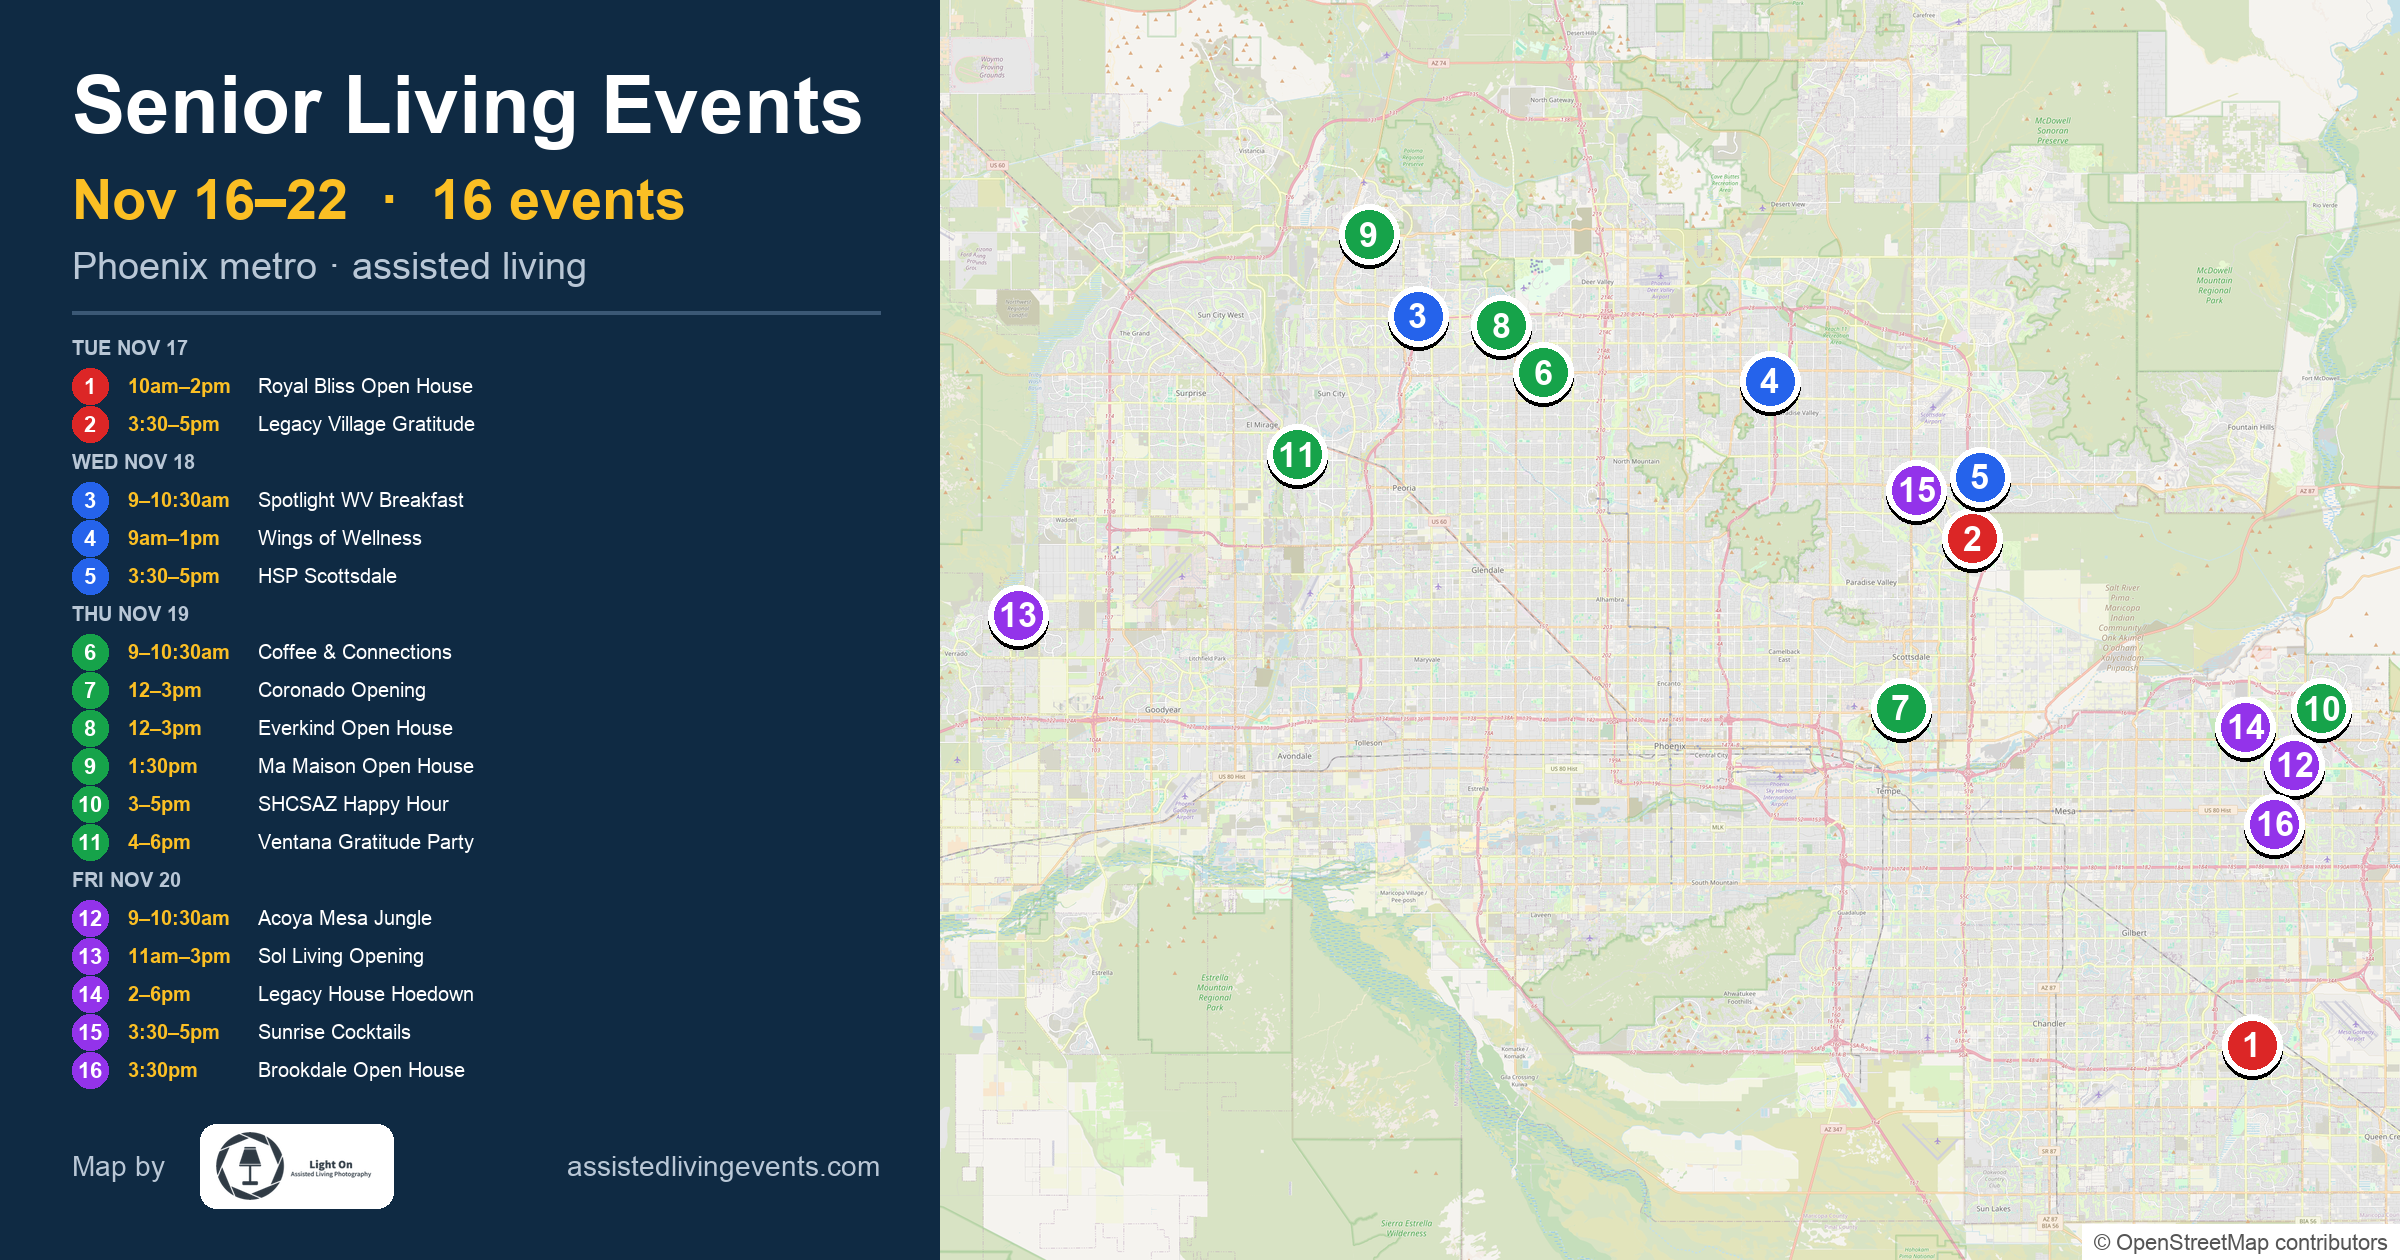
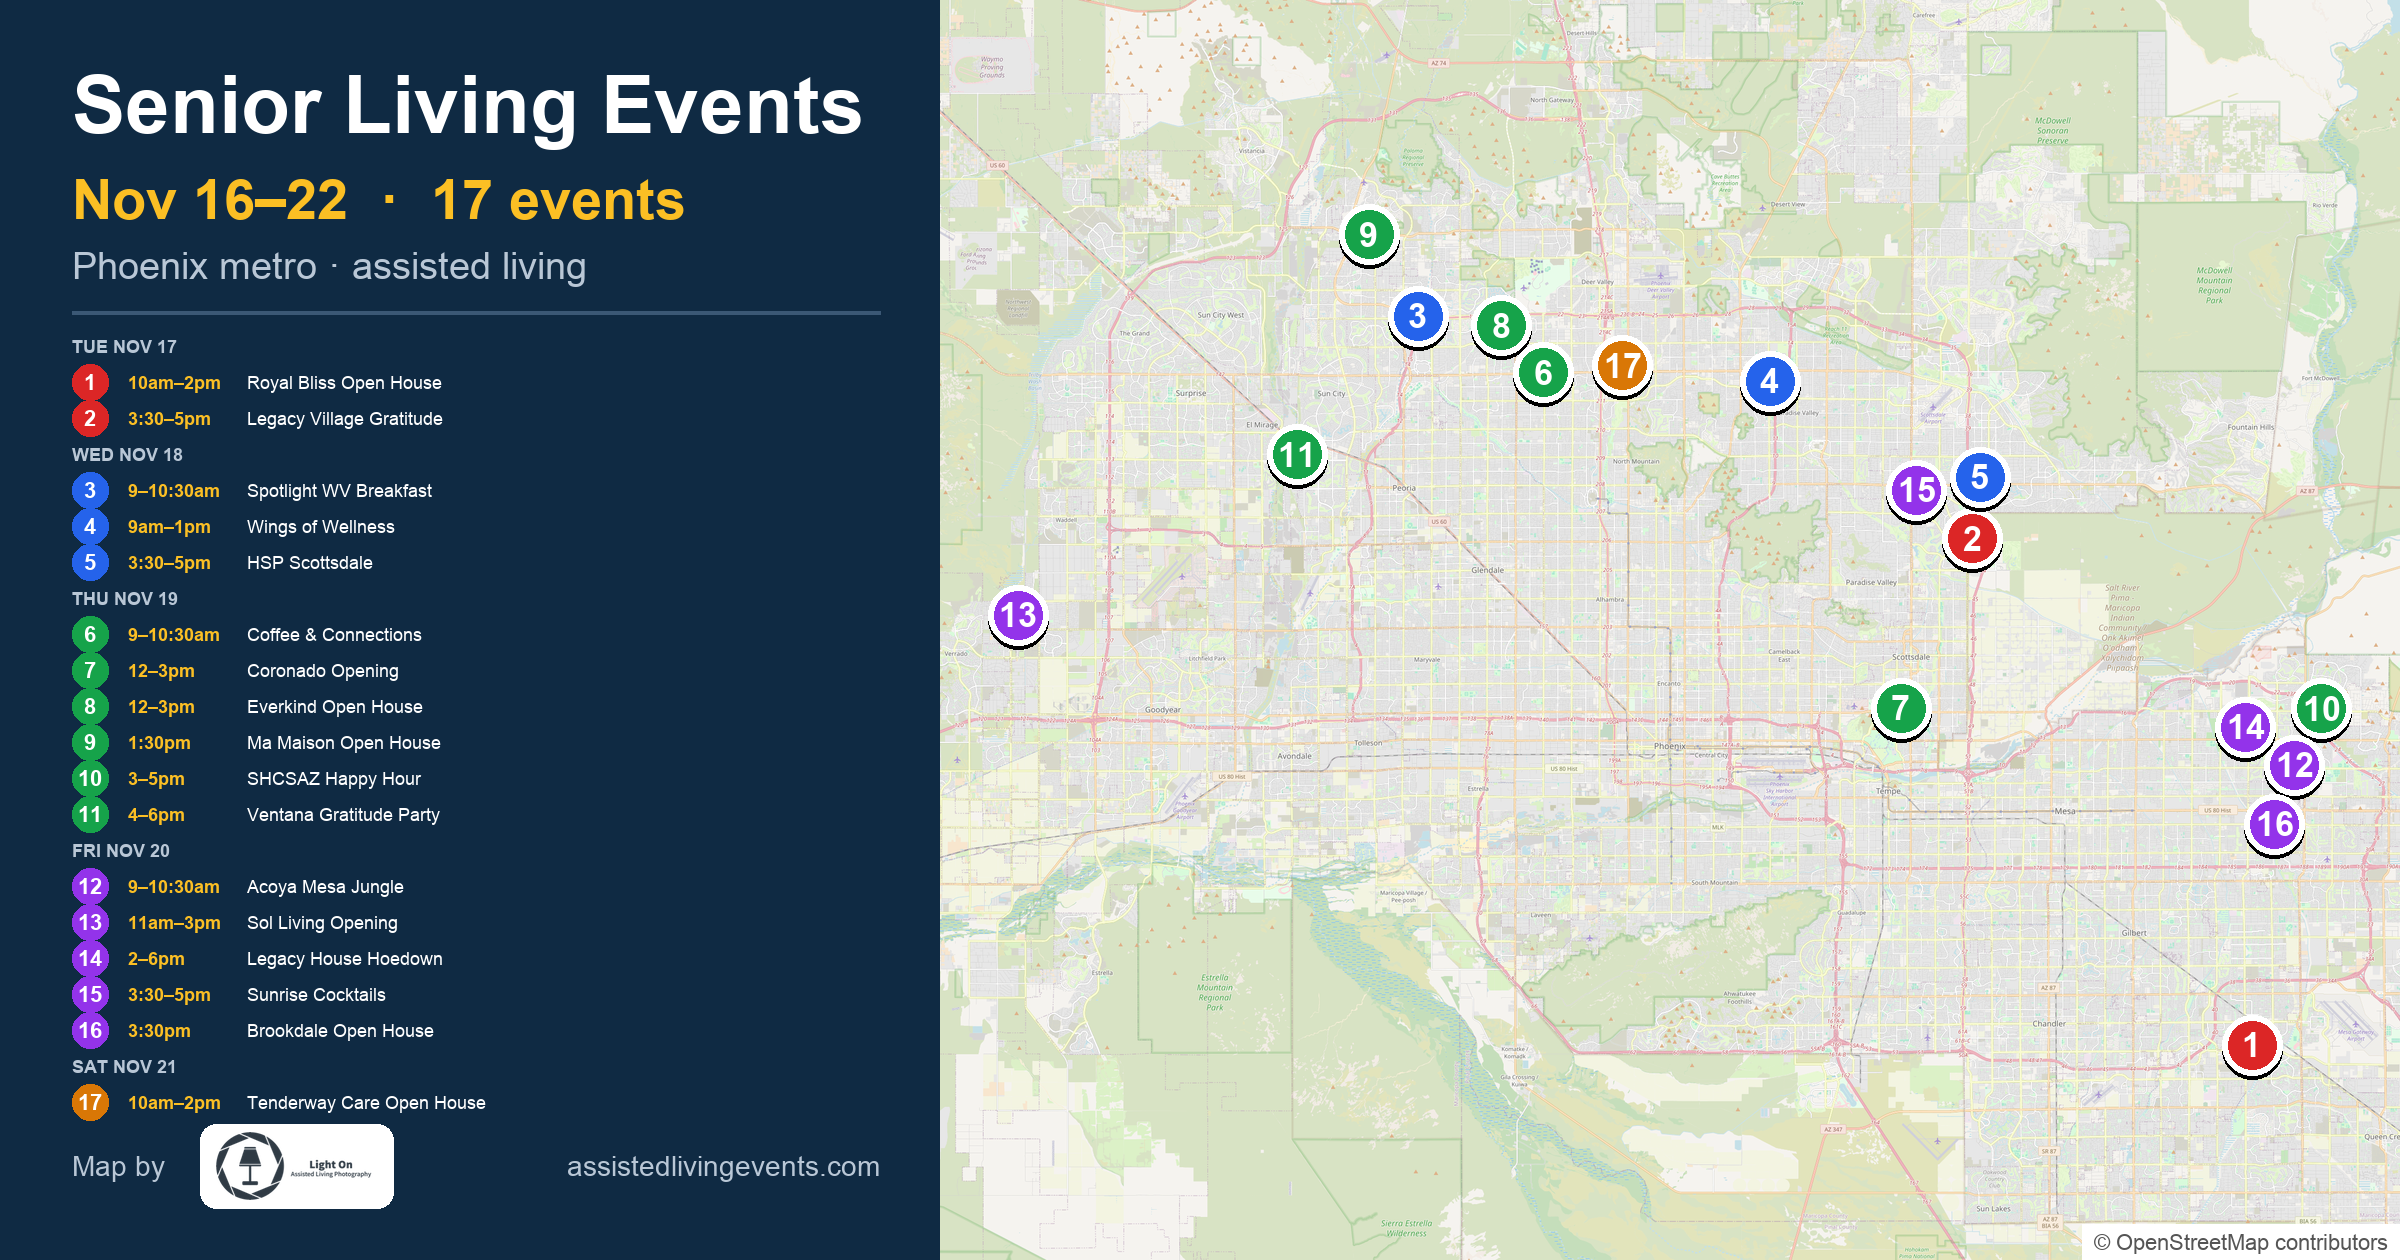
Week of Nov 16, 2026-11-15-3

Changed region(s): [[0.0312, 0.2476, 0.1875, 0.8976], [0.6562, 0.2476, 0.6875, 0.3095], [0.1875, 0.1548, 0.2188, 0.1857]]

diff --git a/index.html b/index.html
@@ -4,23 +4,23 @@
   <meta charset="UTF-8" />
   <title>Phoenix Metro Weekly Assisted Living Events</title>
   <!-- og:start (generated by scripts/build_preview.py) -->
-  <meta name="description" content="Nov 16–22 · 16 assisted living events across the Valley" />
+  <meta name="description" content="Nov 16–22 · 17 assisted living events across the Valley" />
   <meta property="og:type" content="website" />
   <meta property="og:title" content="Senior Living Events · Nov 16–22" />
-  <meta property="og:description" content="Nov 16–22 · 16 assisted living events across the Valley" />
+  <meta property="og:description" content="Nov 16–22 · 17 assisted living events across the Valley" />
   <meta property="og:url" content="https://assistedlivingevents.com/" />
-  <meta property="og:image" content="https://assistedlivingevents.com/images/preview.png?v=2026-11-15-2" />
+  <meta property="og:image" content="https://assistedlivingevents.com/images/preview.png?v=2026-11-15-3" />
   <meta property="og:image:width" content="1200" />
   <meta property="og:image:height" content="630" />
   <meta name="twitter:card" content="summary_large_image" />
   <meta name="twitter:title" content="Senior Living Events · Nov 16–22" />
-  <meta name="twitter:description" content="Nov 16–22 · 16 assisted living events across the Valley" />
-  <meta name="twitter:image" content="https://assistedlivingevents.com/images/preview.png?v=2026-11-15-2" />
+  <meta name="twitter:description" content="Nov 16–22 · 17 assisted living events across the Valley" />
+  <meta name="twitter:image" content="https://assistedlivingevents.com/images/preview.png?v=2026-11-15-3" />
   <!-- og:end -->
   <meta name="viewport" content="width=device-width, initial-scale=1" />
   <link href="https://api.mapbox.com/mapbox-gl-js/v3.6.0/mapbox-gl.css" rel="stylesheet" />
   <link href="vendor/leaflet/leaflet.css" rel="stylesheet" />
-  <link href="css/styles.css?v=2026-11-15-2" rel="stylesheet" />
+  <link href="css/styles.css?v=2026-11-15-3" rel="stylesheet" />
 </head>
 <body>
   <header>
@@ -89,8 +89,8 @@
     })();
   </script>
   <script src="https://api.mapbox.com/mapbox-gl-js/v3.6.0/mapbox-gl.js"></script>
-  <script src="js/config.js?v=2026-11-15-2"></script>
-  <script src="js/map.js?v=2026-11-15-2"></script>
+  <script src="js/config.js?v=2026-11-15-3"></script>
+  <script src="js/map.js?v=2026-11-15-3"></script>
   <script data-goatcounter="https://assistedlivingevents.goatcounter.com/count"
           async src="//gc.zgo.at/count.js"></script>
 </body>

diff --git a/js/config.js b/js/config.js
@@ -1,2 +1,2 @@
 const MAPBOX_TOKEN = "pk.eyJ1IjoiY2dydWl0YSIsImEiOiJjbXRhanNoYzkwMGRrMndvYnQ5OWFvcHZoIn0.IXzPp--fY9nrZjRw5MfD2A";
-const MAP_VERSION = "2026-11-15-2";
+const MAP_VERSION = "2026-11-15-3";

diff --git a/data/weeks/next-week.md b/data/weeks/next-week.md
@@ -1,7 +1,7 @@
 # Next week AL events
 
 Week of Mon Nov 16 – Sun Nov 22, 2026.
-Source: Nancy Winters weekly email ("Welcome to Week 3 of November Connecting and Growing your Business! Let's Go!", Nov 14; forwarded to Gmail Nov 16) + attached flyers + SHCSAZ Facebook Events tab. Flyers win over text. Map names: Royal Bliss Open House, Legacy Village Gratitude, Spotlight WV Breakfast, Wings of Wellness, HSP Scottsdale, Coffee & Connections, Coronado Opening, Everkind Open House, Ma Maison Open House, SHCSAZ Happy Hour, Ventana Gratitude Party, Acoya Mesa Jungle, Sol Living Opening, Legacy House Hoedown, Sunrise Cocktails, Brookdale Open House. Map: data/weeks/2026-11-16.csv (build loads the CSV named by the week's Monday), version 2026-11-15-2 (committed on the Mini, not pushed). 16 events on map. Previews: 11.16.2026/preview-2026-11-15(.png|@2x.png).
+Source: Nancy Winters weekly email ("Welcome to Week 3 of November Connecting and Growing your Business! Let's Go!", Nov 14; forwarded to Gmail Nov 16) + attached flyers + SHCSAZ Facebook Events tab. Flyers win over text. Map names: Royal Bliss Open House, Legacy Village Gratitude, Spotlight WV Breakfast, Wings of Wellness, HSP Scottsdale, Coffee & Connections, Coronado Opening, Everkind Open House, Ma Maison Open House, SHCSAZ Happy Hour, Ventana Gratitude Party, Acoya Mesa Jungle, Sol Living Opening, Legacy House Hoedown, Sunrise Cocktails, Brookdale Open House, Tenderway Care Open House. Map: data/weeks/2026-11-16.csv (build loads the CSV named by the week's Monday), version 2026-11-15-3 (committed on the Mini, not pushed). 17 events on map. Previews: 11.16.2026/preview-2026-11-15(.png|@2x.png).
 
 | id | Date | Time | Event | Host | Address | Care | Source | include |
 |---|---|---|---|---|---|---|---|---|
@@ -21,6 +21,7 @@ Source: Nancy Winters weekly email ("Welcome to Week 3 of November Connecting an
 | e010 | Fri Nov 20 | 2–6pm | Western Hoedown & Craft Fair | Legacy House of Mesa | 5625 E McKellips Rd, Mesa 85215 | AL/MC | flyer image014 (text said 2–5pm); live music 3–4pm | yes |
 | e011 | Fri Nov 20 | 3:30–5pm | Cocktails & Connections | Sunrise of Scottsdale | 7370 E Gold Dust Ave, Scottsdale 85258 | AL/MC | flyer image027; RSVP 480-609-5115 | yes |
 | e012 | Fri Nov 20 | 3:30–5:30pm | Meet & Greet Open House | Brookdale East Arbor | 6060 E Arbor Ave, Mesa 85206 | AL | flyer image033; Andrea Palmer 602-469-8292 | yes |
+| e017 | Sat Nov 21 | 10am–2pm | Tenderway Care Open House | Tenderway Care Assisted Living | 1985 W Anderson Ave, Phoenix 85023 | AL home | SHCSAZ FB https://www.facebook.com/photo/?fbid=122197917488854415&set=gm.4639590666275290&idorvanity=1630408510526869; newly licensed 10-bed home (Evelyn Carey post) | yes |
 
 ## Dropped / skip (this window)
 - Tue Nov 17 — ProREAL Networking (Nouvelle Lighting); Marcie's Marketing Brew coffee (6134 E Main St, Mesa); BidBox Auctions Mesa Chamber ribbon cutting; 101 Referral lunch at The Park at Copper Creek, Chandler (901 S 94th St); Rockin Rob karaoke at Arizona Golf Resort; Epic West Valley Chamber at City of Hope; 101 Referral Zoom; Forward Loans homebuyer webinar — SKIP
